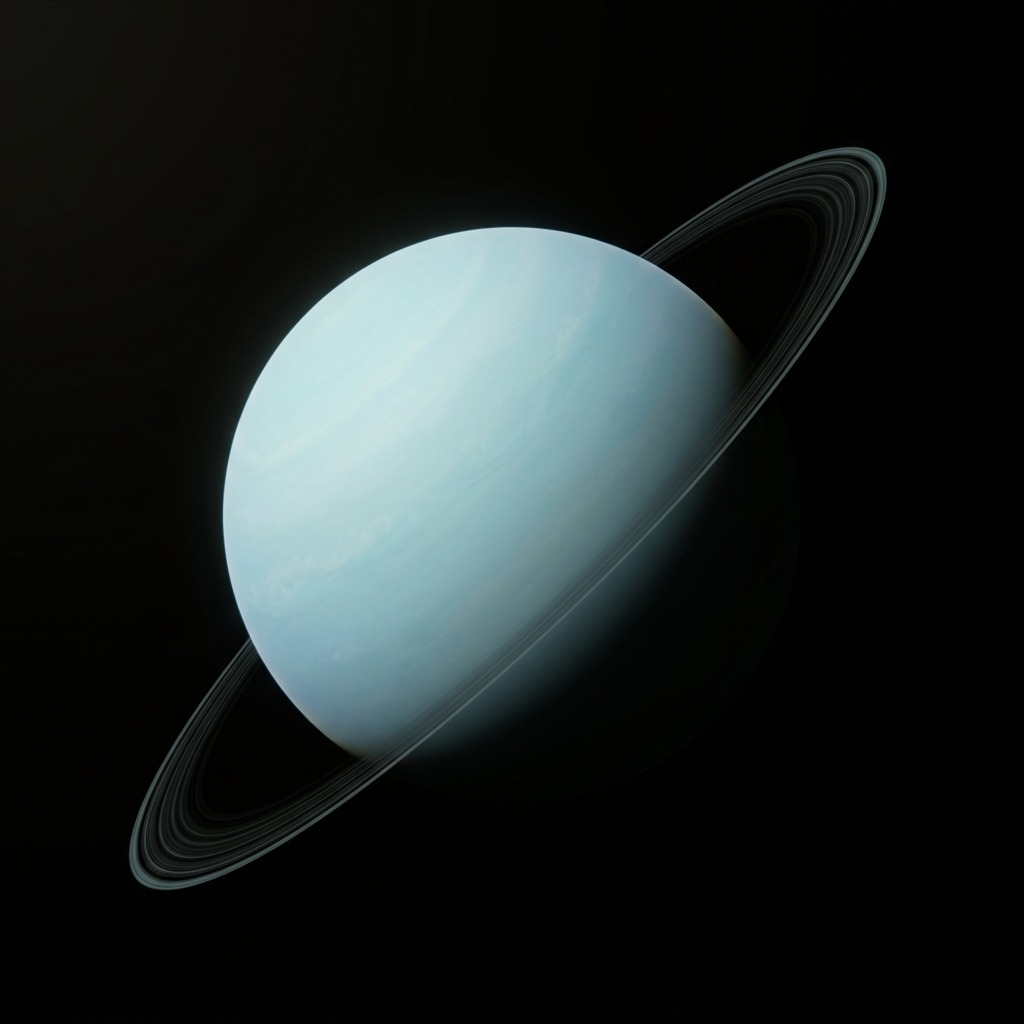
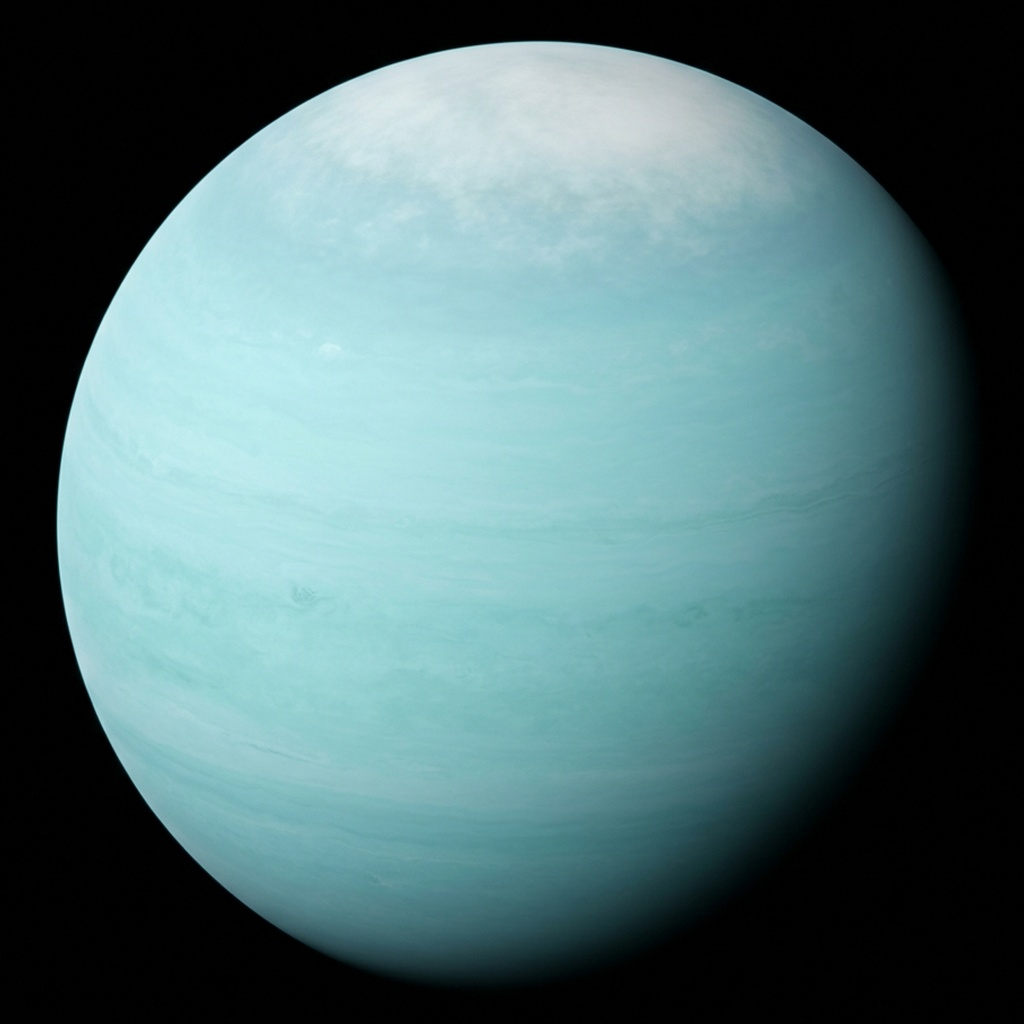
fix(experience): calibrate spherical planet shader and integrate ultra-high-res centered Uranus ice giant

diff --git a/src/components/experience/PlanetServicesExperience.react.tsx b/src/components/experience/PlanetServicesExperience.react.tsx
@@ -351,10 +351,10 @@ function createPlanetShader(
         
         float mask = 1.0;
         if (!uIsRingPlanet) {
-          // Seamless soft edge feathering on spherical planets
-          mask = 1.0 - smoothstep(0.482, 0.496, dist);
+          // Seamless soft edge feathering on spherical planets (calibrated to planet limb, zero black gap)
+          mask = 1.0 - smoothstep(0.450, 0.468, dist);
         } else {
-          // Ring Planet (Saturn / Uranus):
+          // Ring Planet (Saturn):
           // Inside the planet sphere (dist < 0.27), sphere & shadows are 100% solid
           // Outside the planet sphere, rings are preserved by luminance while black space is discarded
           float lum = max(texColor.r, max(texColor.g, texColor.b));
@@ -374,10 +374,10 @@ function createPlanetShader(
           discard;
         }
 
-        // Soft atmospheric rim illumination for spherical planets
+        // Soft atmospheric rim illumination directly hugs the planet sphere limb
         float rim = 0.0;
         if (!uIsRingPlanet) {
-          rim = smoothstep(0.35, 0.485, dist) * (1.0 - smoothstep(0.485, 0.496, dist)) * 0.25;
+          rim = smoothstep(0.36, 0.456, dist) * (1.0 - smoothstep(0.456, 0.468, dist)) * 0.35;
         }
         vec3 finalColor = texColor.rgb + uAtmosphereColor * rim;
 
@@ -552,7 +552,7 @@ export const PlanetServicesExperience: React.FC = () => {
       const currMat = currentPlanetMeshRef.current.material as THREE.ShaderMaterial;
       if (currMat.uniforms) {
         currMat.uniforms.uTexture.value = fromTex;
-        currMat.uniforms.uIsRingPlanet.value = fromPlanetIdx === 5 || fromPlanetIdx === 6;
+        currMat.uniforms.uIsRingPlanet.value = fromPlanetIdx === 5;
         currMat.uniforms.uAtmosphereColor.value = new THREE.Color(fromStage.starColorHex);
         currMat.uniforms.uOpacity.value = 1.0;
       }
@@ -560,7 +560,7 @@ export const PlanetServicesExperience: React.FC = () => {
       const nextMat = nextPlanetMeshRef.current.material as THREE.ShaderMaterial;
       if (nextMat.uniforms) {
         nextMat.uniforms.uTexture.value = toTex;
-        nextMat.uniforms.uIsRingPlanet.value = toPlanetIdx === 5 || toPlanetIdx === 6;
+        nextMat.uniforms.uIsRingPlanet.value = toPlanetIdx === 5;
         nextMat.uniforms.uAtmosphereColor.value = new THREE.Color(toStage.starColorHex);
         nextMat.uniforms.uOpacity.value = 0.0;
       }
@@ -604,7 +604,7 @@ export const PlanetServicesExperience: React.FC = () => {
             const currMat = currentPlanetMeshRef.current.material as THREE.ShaderMaterial;
             if (currMat.uniforms) {
               currMat.uniforms.uTexture.value = finalTex;
-              currMat.uniforms.uIsRingPlanet.value = toPlanetIdx === 5 || toPlanetIdx === 6;
+              currMat.uniforms.uIsRingPlanet.value = toPlanetIdx === 5;
               currMat.uniforms.uAtmosphereColor.value = new THREE.Color(finalStage.starColorHex);
               currMat.uniforms.uOpacity.value = 1.0;
             }

diff --git a/tests/e2e/planet-critical-bugfix.spec.ts b/tests/e2e/planet-critical-bugfix.spec.ts
@@ -156,6 +156,9 @@ test.describe('Rent Yazılım — Pure WebGL Fullscreen Planet Service Experienc
       if (expectedStages[i].id === 'saturn' && testInfo.project.name === 'chromium') {
         await page.screenshot({ path: path.join(artifactsDir, 'v3_06_saturn_scene.png') });
       }
+      if (expectedStages[i].id === 'uranus' && testInfo.project.name === 'chromium') {
+        await page.screenshot({ path: path.join(artifactsDir, 'v3_07_uranus_scene.png') });
+      }
       if (expectedStages[i].id === 'neptune' && testInfo.project.name === 'chromium') {
         await page.screenshot({ path: path.join(artifactsDir, 'v3_08_neptune_scene.png') });
       }
